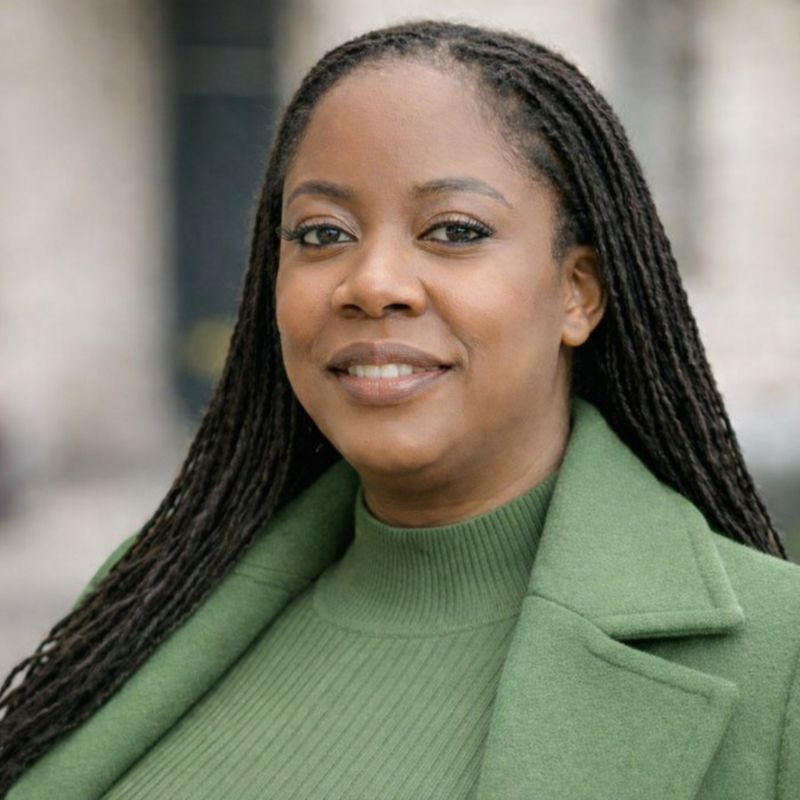
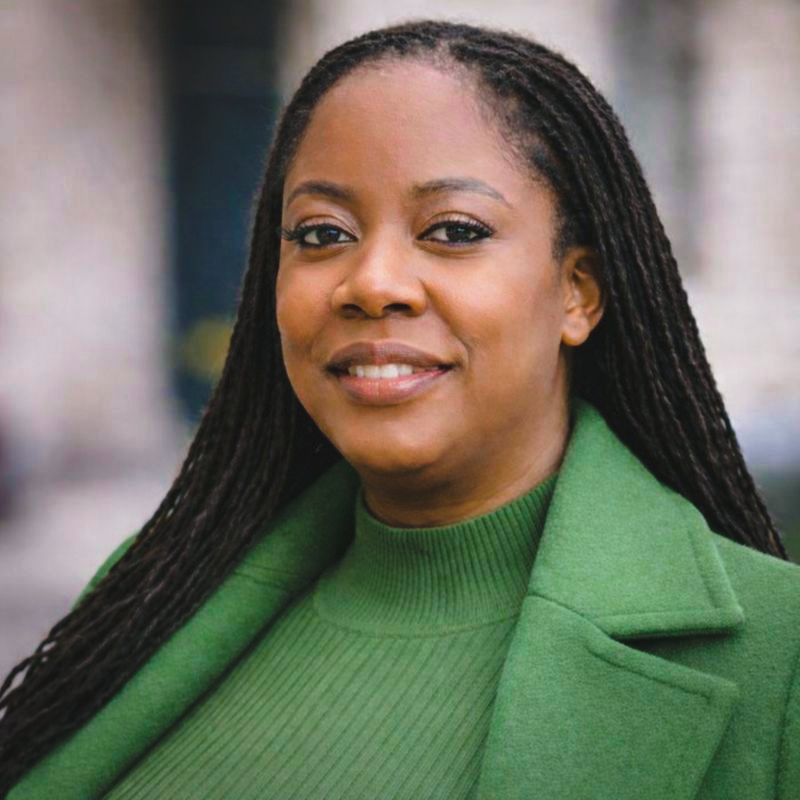
inital commit

diff --git a/index.html b/index.html
@@ -210,7 +210,7 @@
 
         .image-placeholder {
             width: 100%;
-            height: 500px;
+            height: 600px;
             background: linear-gradient(135deg, var(--primary) 0%, var(--secondary) 100%);
             border-radius: 30px;
             display: flex;
@@ -552,6 +552,10 @@
                 flex-direction: column;
             }
 
+            .image-placeholder {
+                height: 450px !important;
+            }
+
             .features-grid {
                 grid-template-columns: 1fr;
                 gap: 30px;
@@ -615,7 +619,7 @@
     <!-- Navigation -->
     <nav>
         <div style="display: flex; align-items: center; gap: 15px;">
-            <img src="./noble_rose_logo.jpeg" alt="Noble Rose Logo" style="height: 50px; width: auto;">
+            <img src="noble_rose_logo.jpeg" alt="Noble Rose Logo" style="height: 50px; width: auto;">
             <div class="logo-text">Noble Rose</div>
         </div>
         <button class="nav-cta">Notify Me</button>
@@ -637,8 +641,8 @@
                 </form>
             </div>
             <div class="hero-image">
-                <div class="image-placeholder" style="background: none; padding: 0;">
-                    <img src="./pat_green.png" alt="Patrice Barnes-Tracey" style="width: 100%; height: 100%; object-fit: cover; border-radius: 30px;">
+                <div class="image-placeholder" style="background: none; padding: 0; height: 600px;">
+                    <img src="pat_green.png" alt="Dr. Patrice Barnes-Tracey" style="width: 100%; height: 100%; object-fit: cover; object-position: center 20%; border-radius: 30px;">
                 </div>
             </div>
         </div>
@@ -710,7 +714,7 @@
         }, observerOptions);
 
         document.querySelectorAll('.fade-in').forEach(el => {
-            observer.observe(el); 
+            observer.observe(el);
         });
 
         // Email form handling
